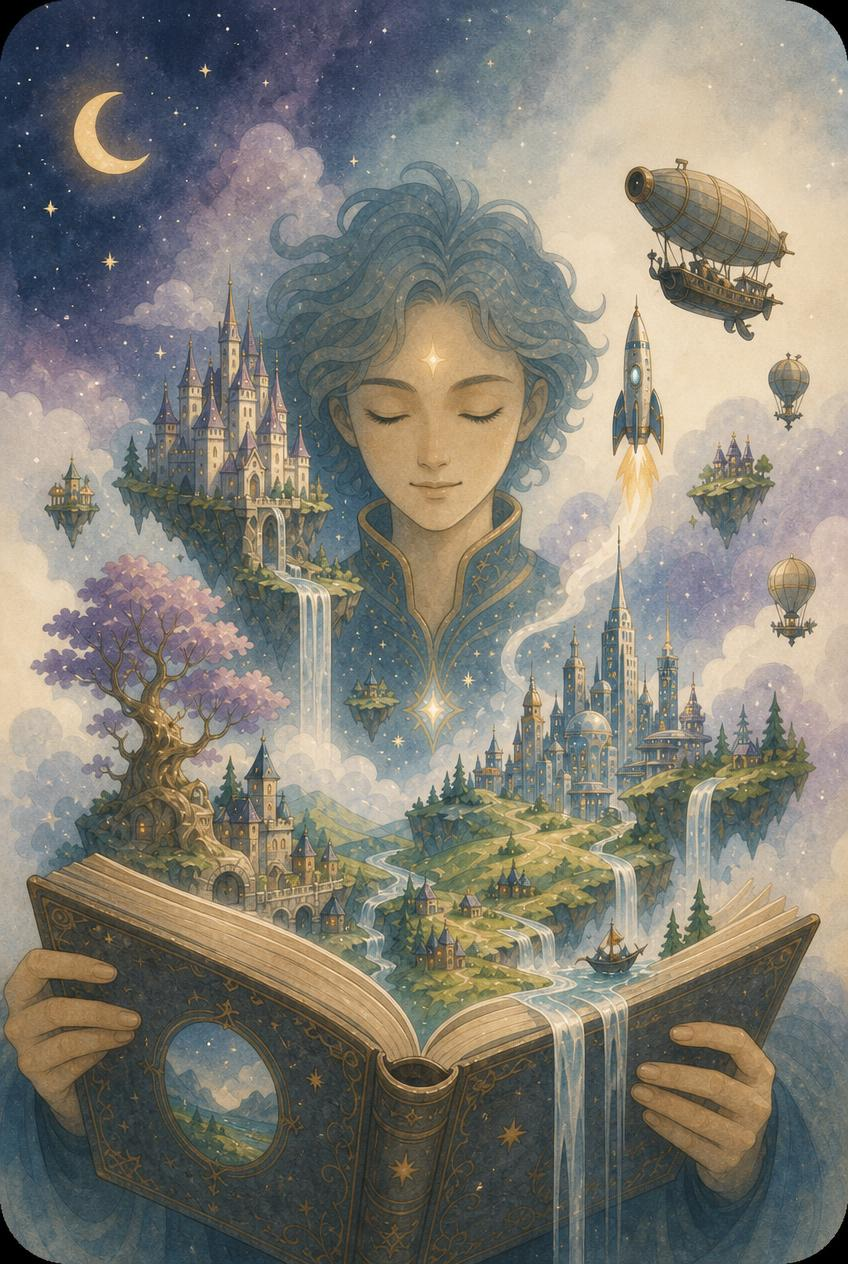
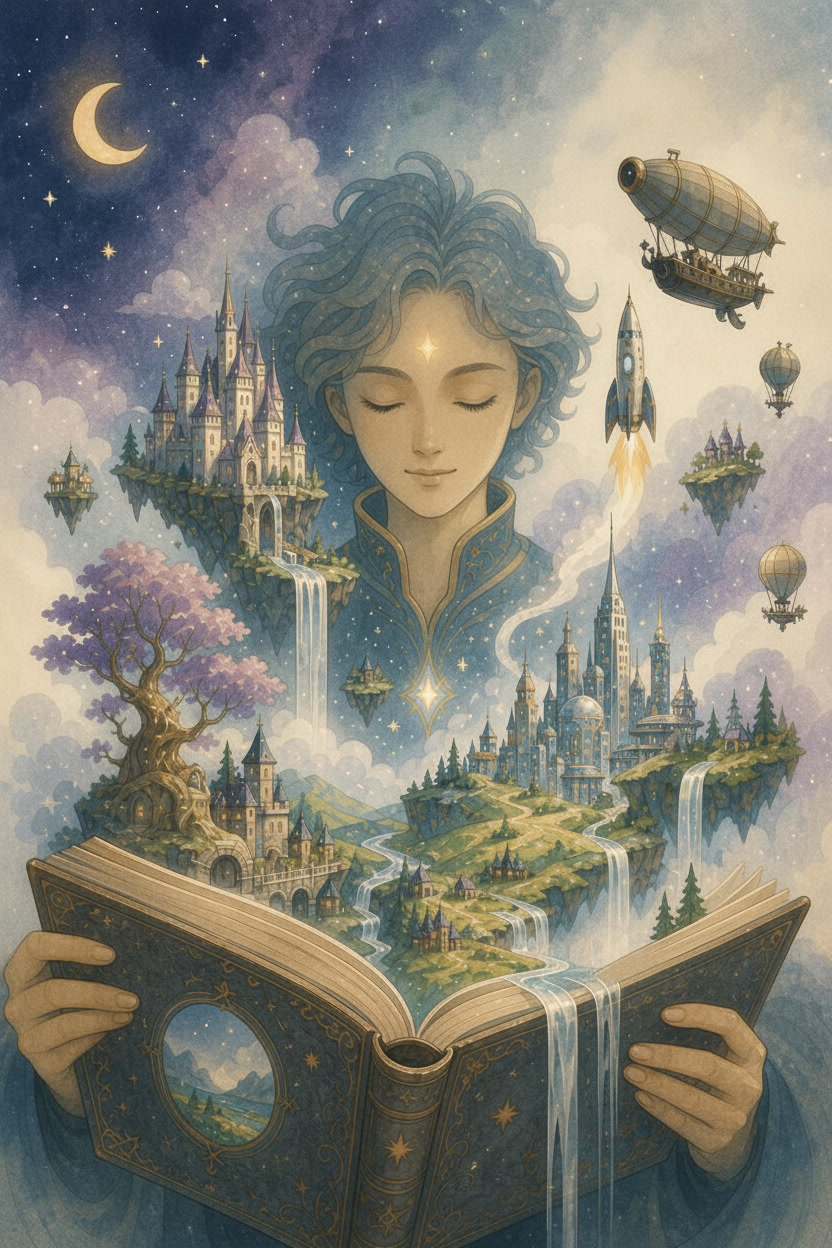
feat: add highlight

diff --git a/apps/web/app/routes/movie.archetype-result.tsx b/apps/web/app/routes/movie.archetype-result.tsx
@@ -1,17 +1,52 @@
+import { useRef, useState } from "react"
 import { Link } from "react-router"
+import { XIcon } from "lucide-react"
 
 import { Button } from "@workspace/ui/components/button"
+import {
+  Dialog,
+  DialogClose,
+  DialogContent,
+  DialogDescription,
+  DialogTitle,
+} from "@workspace/ui/components/dialog"
+
+const ARCHETYPES = {
+  primary: {
+    image: "/images/theworldbuilder.jpg",
+    alt: "Primary movie-watcher archetype",
+    title: "The World-Builder (Escapist)",
+    coreMotivation:
+      "Immersion into rich, expansive fictional universes and high stakes.",
+    keyMetadataSignals:
+      "Fantasy, Sci-Fi, Adventure, Animation, High Budget / VFX, Franchise/Series tags.",
+  },
+  secondary: {
+    image: "/images/theromantic.jpg",
+    alt: "Secondary movie-watcher archetype",
+    title: "The Heart-Led Romantic / Humanist",
+    coreMotivation:
+      "Emotional resonance, character-driven relationships, and human connection.",
+    keyMetadataSignals:
+      "Romance, Rom-Com, Drama, Coming-of-Age, Character Study.",
+  },
+} as const
+
+type ArchetypeKey = keyof typeof ARCHETYPES
 
 const RESULT = {
-  primaryImage: "/images/theworldbuilder.jpg",
-  primaryAlt: "Primary movie-watcher archetype",
-  secondaryImage: "/images/theromantic.jpg",
-  secondaryAlt: "Secondary movie-watcher archetype",
   description:
     "This persona possesses a captivating dual nature: they are driven by deep emotional vulnerability and passionate romance, but they insist that it be paired with high-stakes dramatic intrigue, nostalgic beauty, or time/reality-bending concepts. They don't just want a standard love story; they want love tested by extraordinary circumstances—time travel, tragic fate, societal barriers, or surreal worlds.",
 }
 
 export default function MovieArchetypeResult() {
+  const [highlighted, setHighlighted] = useState<ArchetypeKey | null>(null)
+  const lastHighlightedRef = useRef<ArchetypeKey>("primary")
+  if (highlighted) {
+    lastHighlightedRef.current = highlighted
+  }
+  const highlightedArchetype = ARCHETYPES[highlighted ?? lastHighlightedRef.current]
+
   return (
     <div className="bg-pastel-mesh min-h-svh">
       <article className="mx-auto flex w-full max-w-lg flex-col gap-6 px-4 pt-8 pb-12">
@@ -24,30 +59,36 @@ export default function MovieArchetypeResult() {
 
         <div className="flex flex-col gap-6">
           <div className="relative pb-4">
-            <figure className="relative rounded-2xl bg-card p-2 shadow-md">
+            <button
+              type="button"
+              className="relative w-full cursor-pointer rounded-2xl bg-card p-2 text-left shadow-md outline-none focus-visible:ring-3 focus-visible:ring-ring/50"
+              onClick={() => setHighlighted("primary")}
+              aria-label={`View ${ARCHETYPES.primary.title}`}
+            >
               <img
-                src={RESULT.primaryImage}
-                alt={RESULT.primaryAlt}
+                src={ARCHETYPES.primary.image}
+                alt={ARCHETYPES.primary.alt}
                 className="aspect-[2/3] w-full rounded-xl object-cover"
               />
-              <figcaption className="absolute top-4 left-4">
-                <span className="rounded-full bg-pastel-teal-light px-2.5 py-0.5 text-xs font-medium tracking-wide text-accent-foreground uppercase">
-                  Primary
-                </span>
-              </figcaption>
-            </figure>
-            <figure className="absolute right-3 bottom-2 w-[38%]">
+              <span className="absolute top-4 left-4 rounded-full bg-pastel-teal-light px-2.5 py-0.5 text-xs font-medium tracking-wide text-accent-foreground uppercase">
+                Primary
+              </span>
+            </button>
+            <button
+              type="button"
+              className="absolute right-3 bottom-2 w-[38%] cursor-pointer text-left outline-none focus-visible:ring-3 focus-visible:ring-ring/50"
+              onClick={() => setHighlighted("secondary")}
+              aria-label={`View ${ARCHETYPES.secondary.title}`}
+            >
               <img
-                src={RESULT.secondaryImage}
-                alt={RESULT.secondaryAlt}
+                src={ARCHETYPES.secondary.image}
+                alt={ARCHETYPES.secondary.alt}
                 className="aspect-[2/3] w-full rounded-xl object-cover shadow-md ring-8 ring-card"
               />
-              <figcaption className="absolute top-3 left-3">
-                <span className="rounded-full bg-pastel-teal-light px-2.5 py-0.5 text-xs font-medium tracking-wide text-accent-foreground uppercase">
-                  Secondary
-                </span>
-              </figcaption>
-            </figure>
+              <span className="absolute top-3 left-3 rounded-full bg-pastel-teal-light px-2.5 py-0.5 text-xs font-medium tracking-wide text-accent-foreground uppercase">
+                Secondary
+              </span>
+            </button>
           </div>
           <section className="rounded-2xl border border-pastel-lavender/60 bg-card p-5 shadow-sm">
             <p className="text-pretty text-base leading-relaxed text-pastel-slate-muted">
@@ -60,6 +101,68 @@ export default function MovieArchetypeResult() {
           <Link to="/">Try again</Link>
         </Button>
       </article>
+
+      <Dialog
+        open={highlighted !== null}
+        onOpenChange={(open) => {
+          if (!open) {
+            setHighlighted(null)
+          }
+        }}
+      >
+        <DialogContent
+          showCloseButton={false}
+          className="fixed inset-0 top-0 left-0 flex h-svh max-h-svh w-full max-w-none translate-x-0 translate-y-0 flex-col items-center justify-center gap-4 rounded-none border-0 bg-black/50 p-4 pt-14 shadow-none ring-0 sm:max-w-none"
+          onClick={() => setHighlighted(null)}
+        >
+          <div className="pointer-events-none flex h-full max-h-[calc(100svh-4rem)] w-full max-w-lg flex-col items-center gap-4">
+            <div
+              className="pointer-events-auto flex min-h-0 flex-1 items-center justify-center"
+              onClick={(event) => event.stopPropagation()}
+            >
+              <img
+                src={highlightedArchetype.image}
+                alt={highlightedArchetype.alt}
+                className="max-h-full max-w-full rounded-xl object-contain shadow-lg"
+              />
+            </div>
+            <div
+              className="pointer-events-auto w-full shrink-0 rounded-xl bg-card/95 px-4 py-3 text-center shadow-sm"
+              onClick={(event) => event.stopPropagation()}
+            >
+              <DialogTitle className="text-lg font-semibold text-pastel-slate">
+                {highlightedArchetype.title}
+              </DialogTitle>
+              <DialogDescription asChild>
+                <div className="mt-2 space-y-1 text-pretty text-sm leading-relaxed text-pastel-slate-muted">
+                  <p>
+                    <span className="font-medium text-pastel-slate">
+                      Core Motivation:
+                    </span>{" "}
+                    {highlightedArchetype.coreMotivation}
+                  </p>
+                  <p>
+                    <span className="font-medium text-pastel-slate">
+                      Key Metadata Signals:
+                    </span>{" "}
+                    {highlightedArchetype.keyMetadataSignals}
+                  </p>
+                </div>
+              </DialogDescription>
+            </div>
+          </div>
+          <DialogClose asChild>
+            <Button
+              variant="ghost"
+              size="icon-sm"
+              className="absolute top-4 right-4 z-50 bg-card/90 text-pastel-slate shadow-sm hover:bg-card"
+            >
+              <XIcon />
+              <span className="sr-only">Close</span>
+            </Button>
+          </DialogClose>
+        </DialogContent>
+      </Dialog>
     </div>
   )
 }
